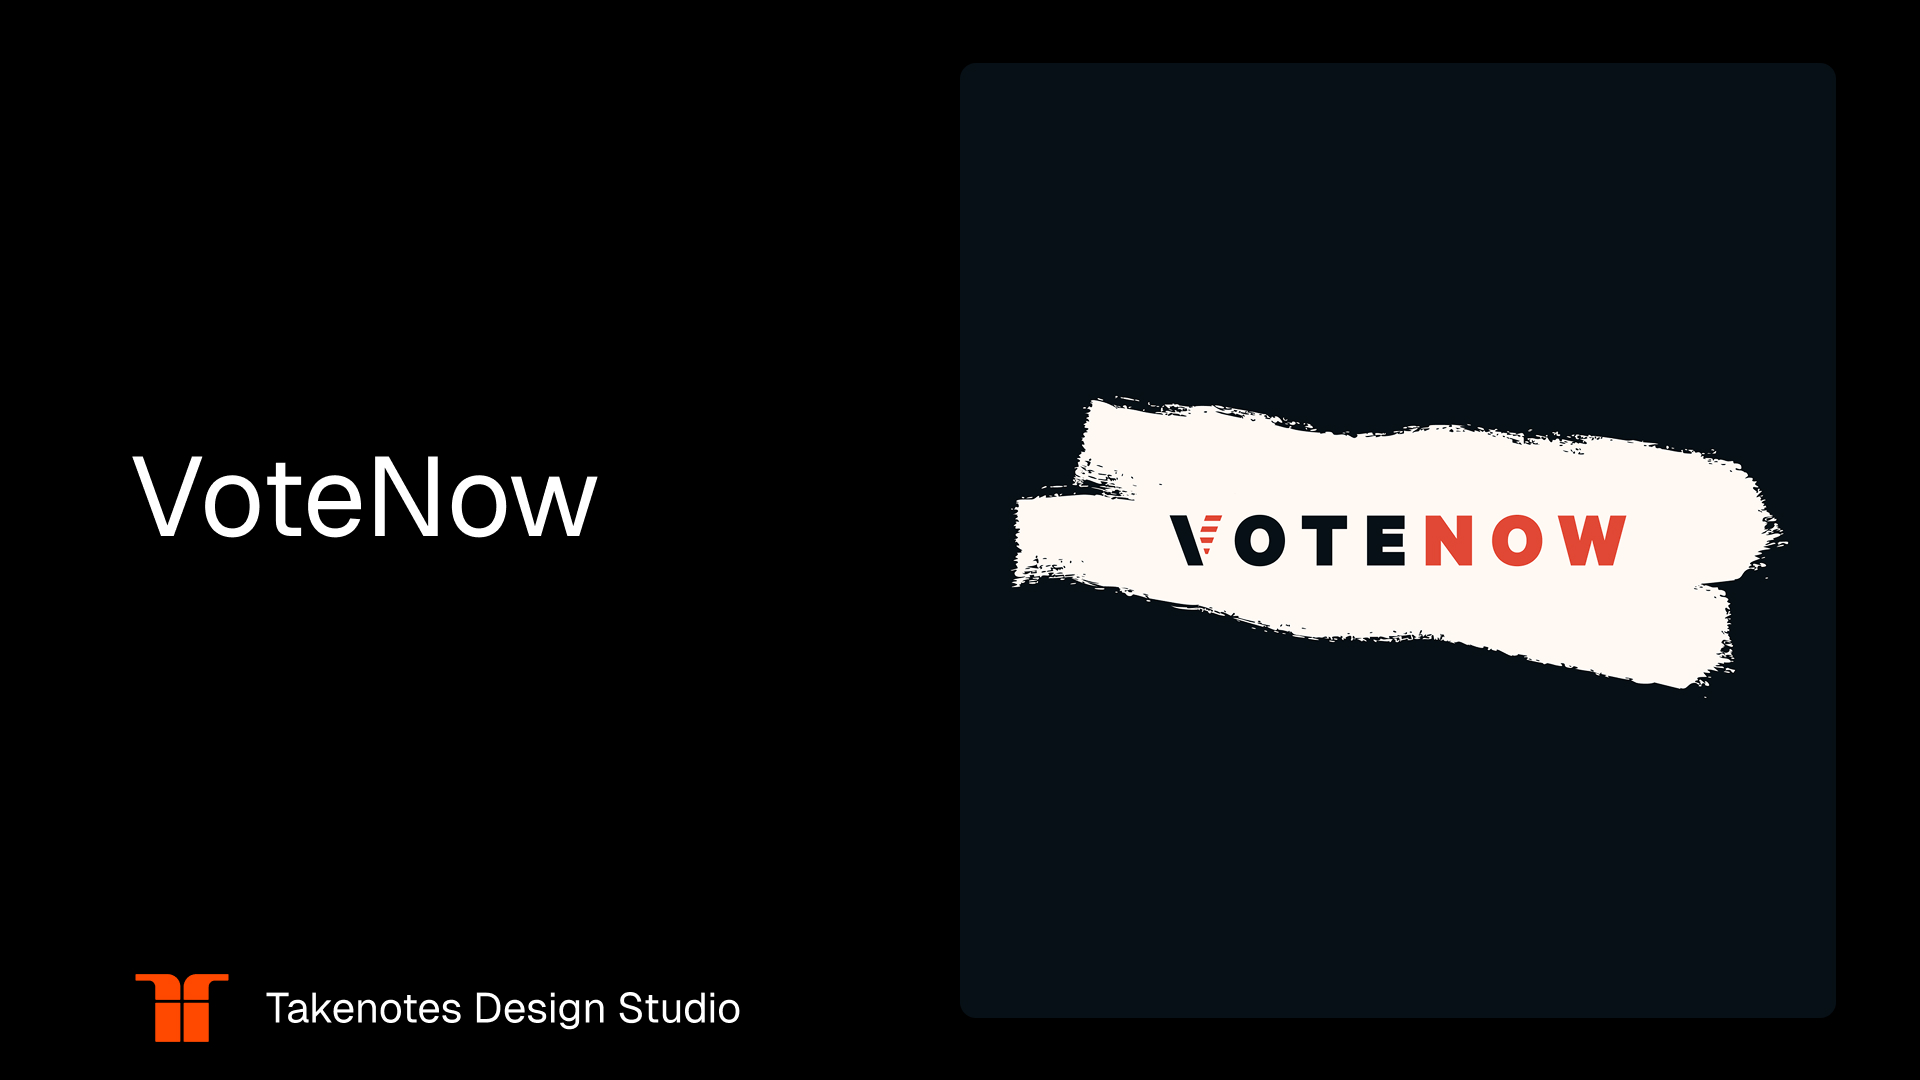
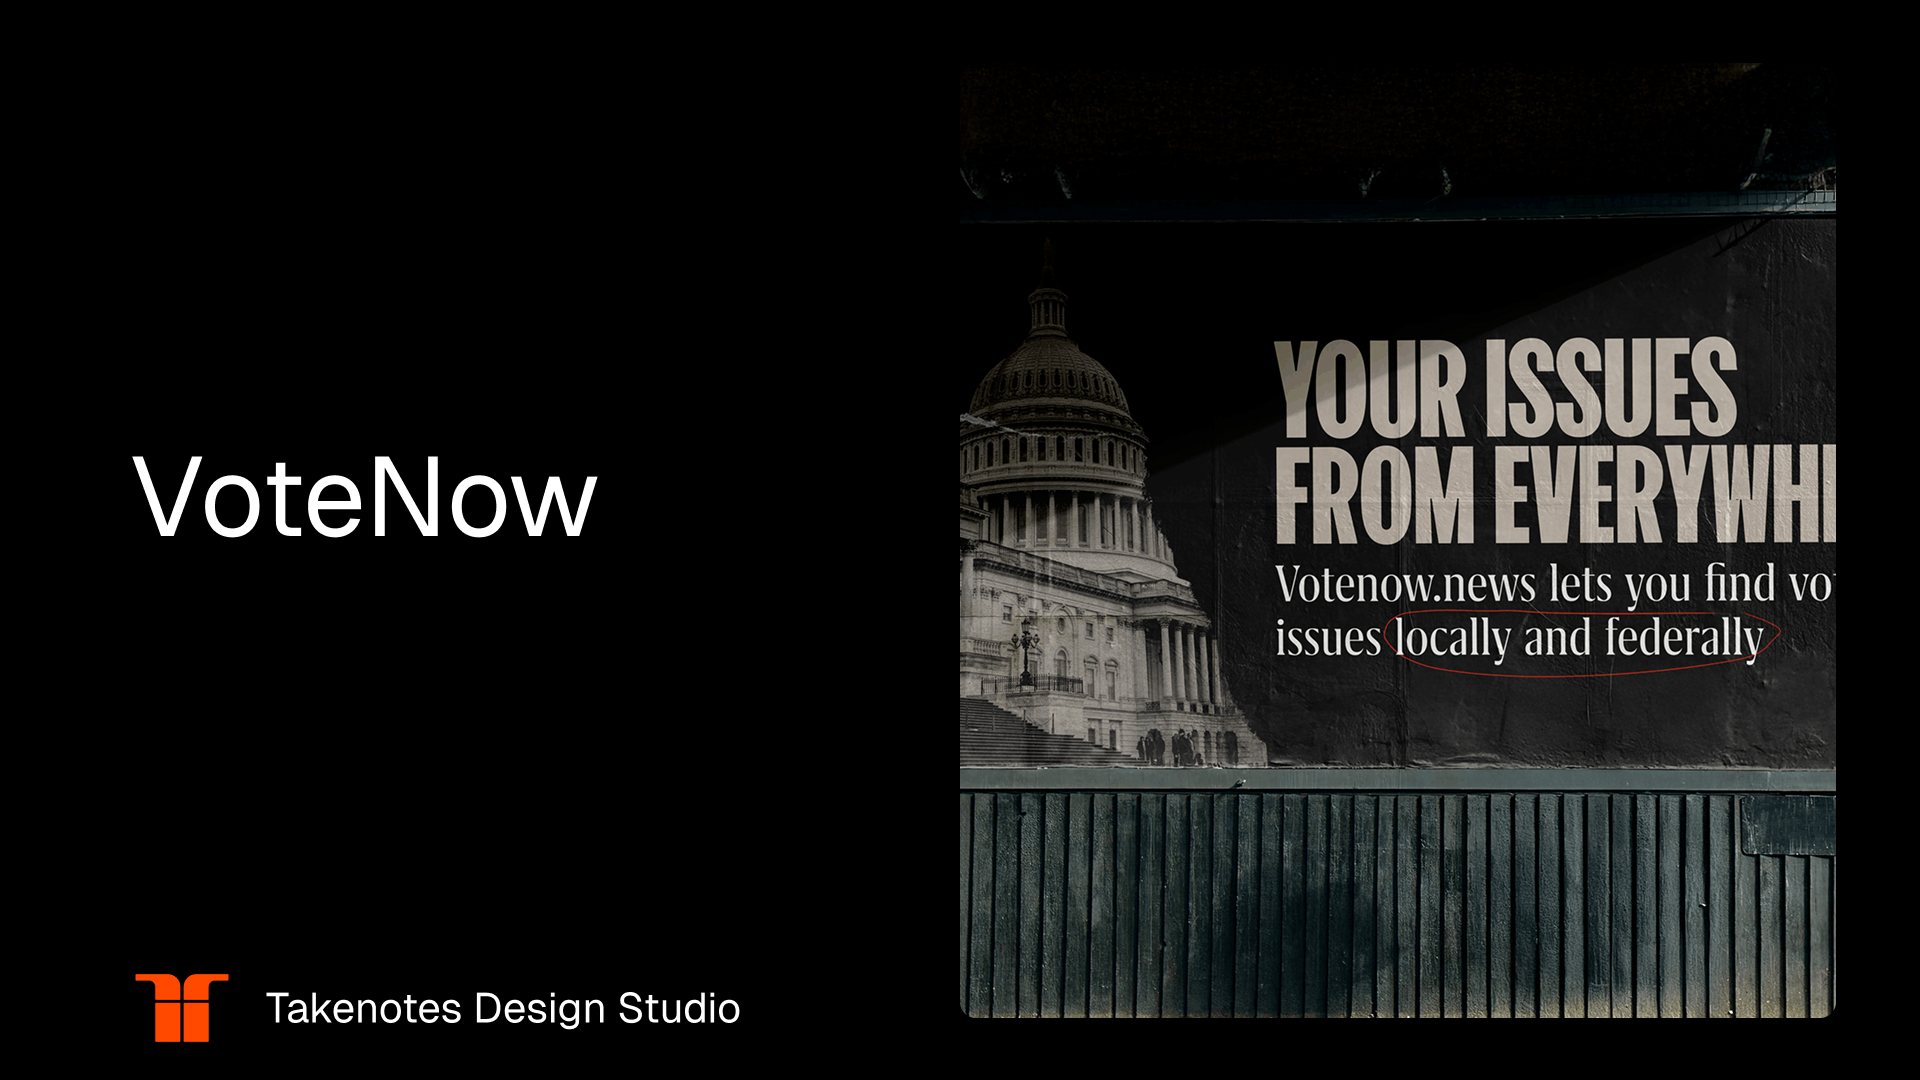
updates

Changed region(s): [[0.5, 0.3056, 0.9688, 0.9472], [0.9062, 0.1528, 0.9688, 0.2444]]

diff --git a/index.html b/index.html
@@ -192,7 +192,7 @@
                     
                     
                         <div class="img-container" data-index="0">
-                            <img src="/assets/uploads/votenow/votenow_logo.png" alt="VoteNow" class="img-fluid">
+                            <img src="/assets/uploads/votenow/VoteNow_BillBoard_Mock.png" alt="VoteNow" class="img-fluid">
                         </div>
                     
                         <div class="img-container" data-index="1">

diff --git a/work/index.html b/work/index.html
@@ -99,7 +99,7 @@
                             1
                         </p>
                         <div class="card-image mb-4 object-fit-cover" style="height: 300px;">
-                            <img src="/assets/uploads/votenow/votenow_logo.png" alt="" class="rounded object-fit-cover" height="100%" width="100%">
+                            <img src="/assets/uploads/votenow/VoteNow_BillBoard_Mock.png" alt="" class="rounded object-fit-cover" height="100%" width="100%">
                         </div>
                         <h5>
                             VoteNow

diff --git a/work/votenow/index.html b/work/votenow/index.html
@@ -74,7 +74,7 @@
     </div>
   </div>
 </nav>
-<header class="bg-center bg-fixed bg-cover" data-bs-theme="dark" style="background-image: url('/assets/uploads/votenow/votenow_logo.png');">
+<header class="bg-center bg-fixed bg-cover" data-bs-theme="dark" style="background-image: url('/assets/uploads/votenow/VoteNow_BillBoard_Mock.png');">
     <div class="container-fluid gradient-overlay min-vh-90 d-flex align-items-end py-4">
         <div class="container">
             <div class="row">